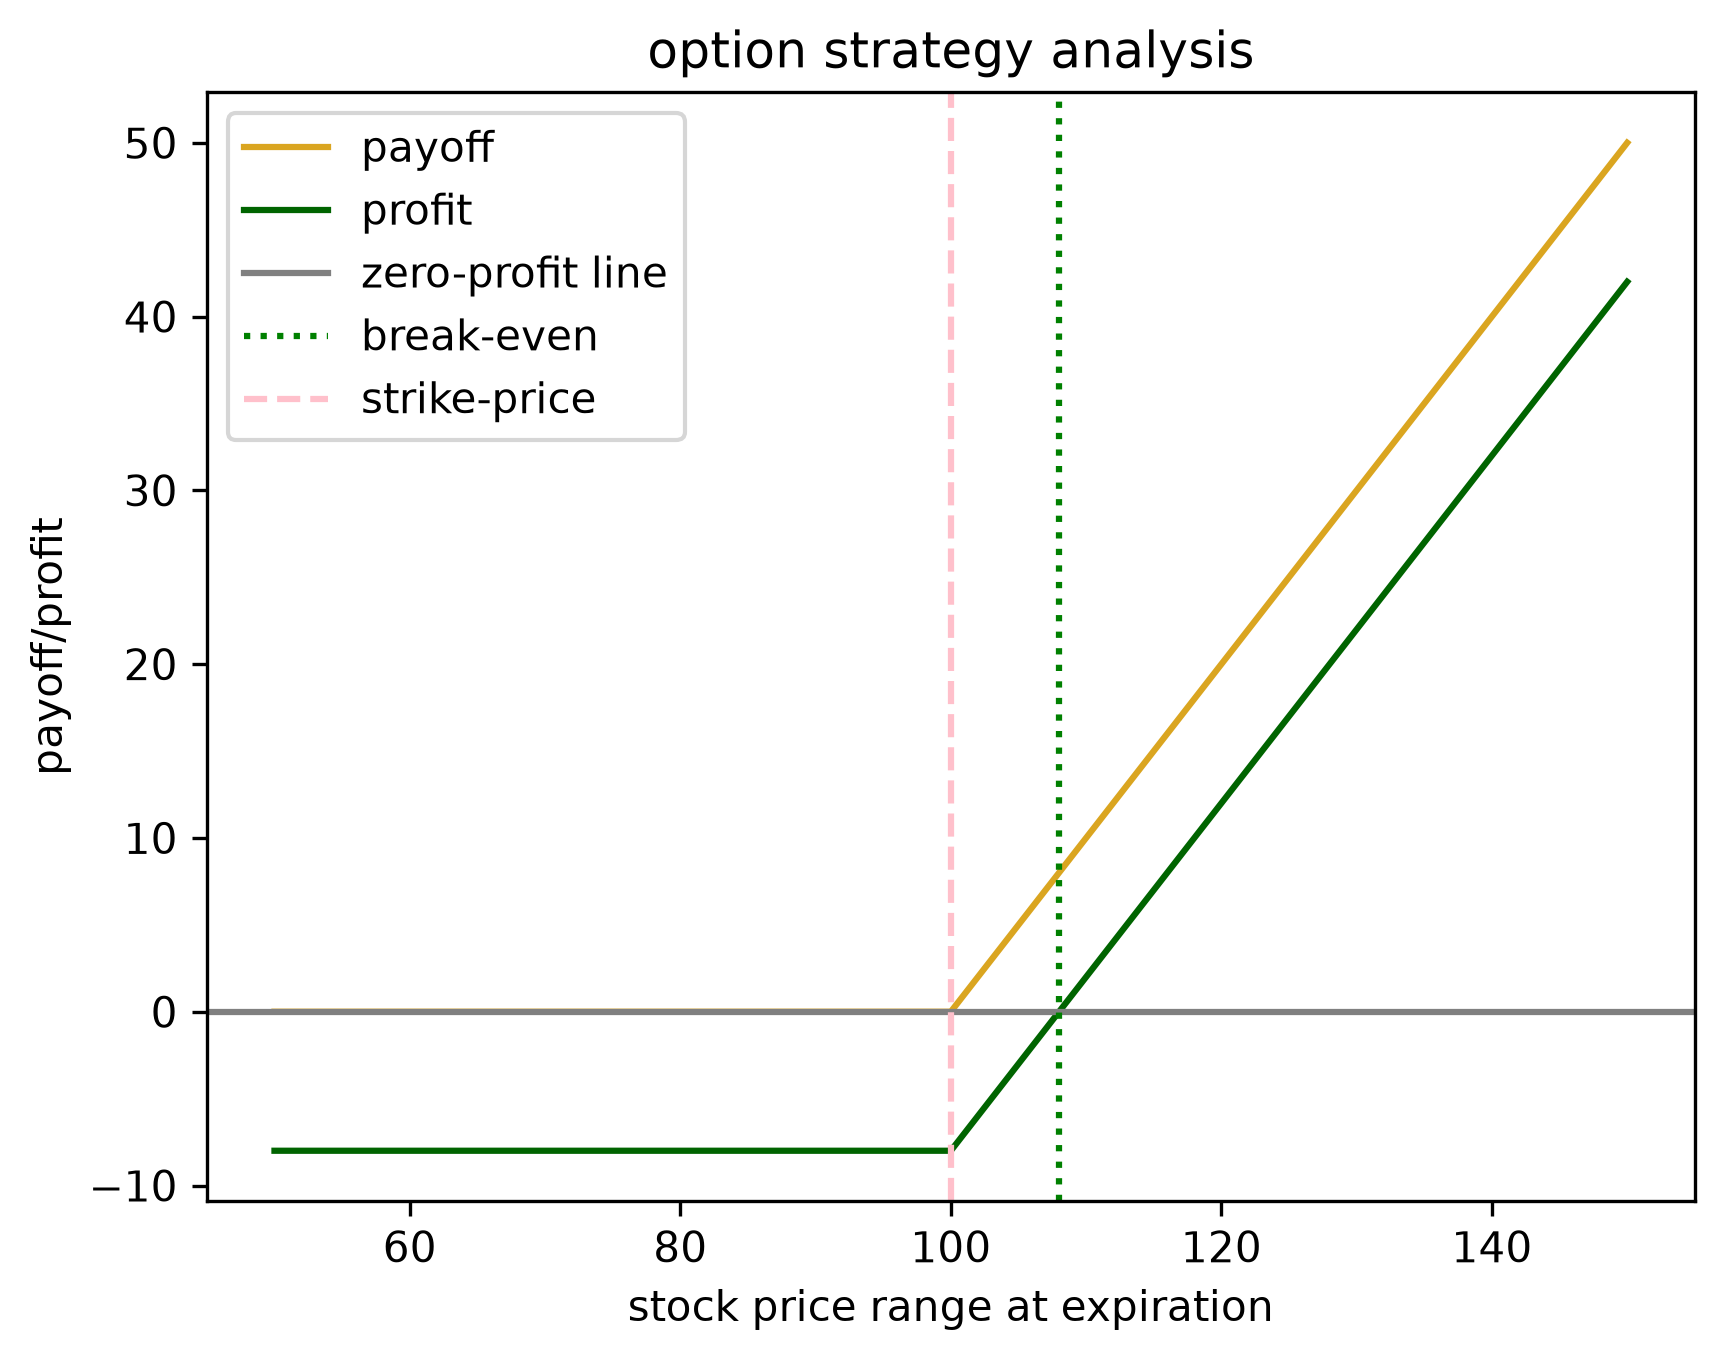
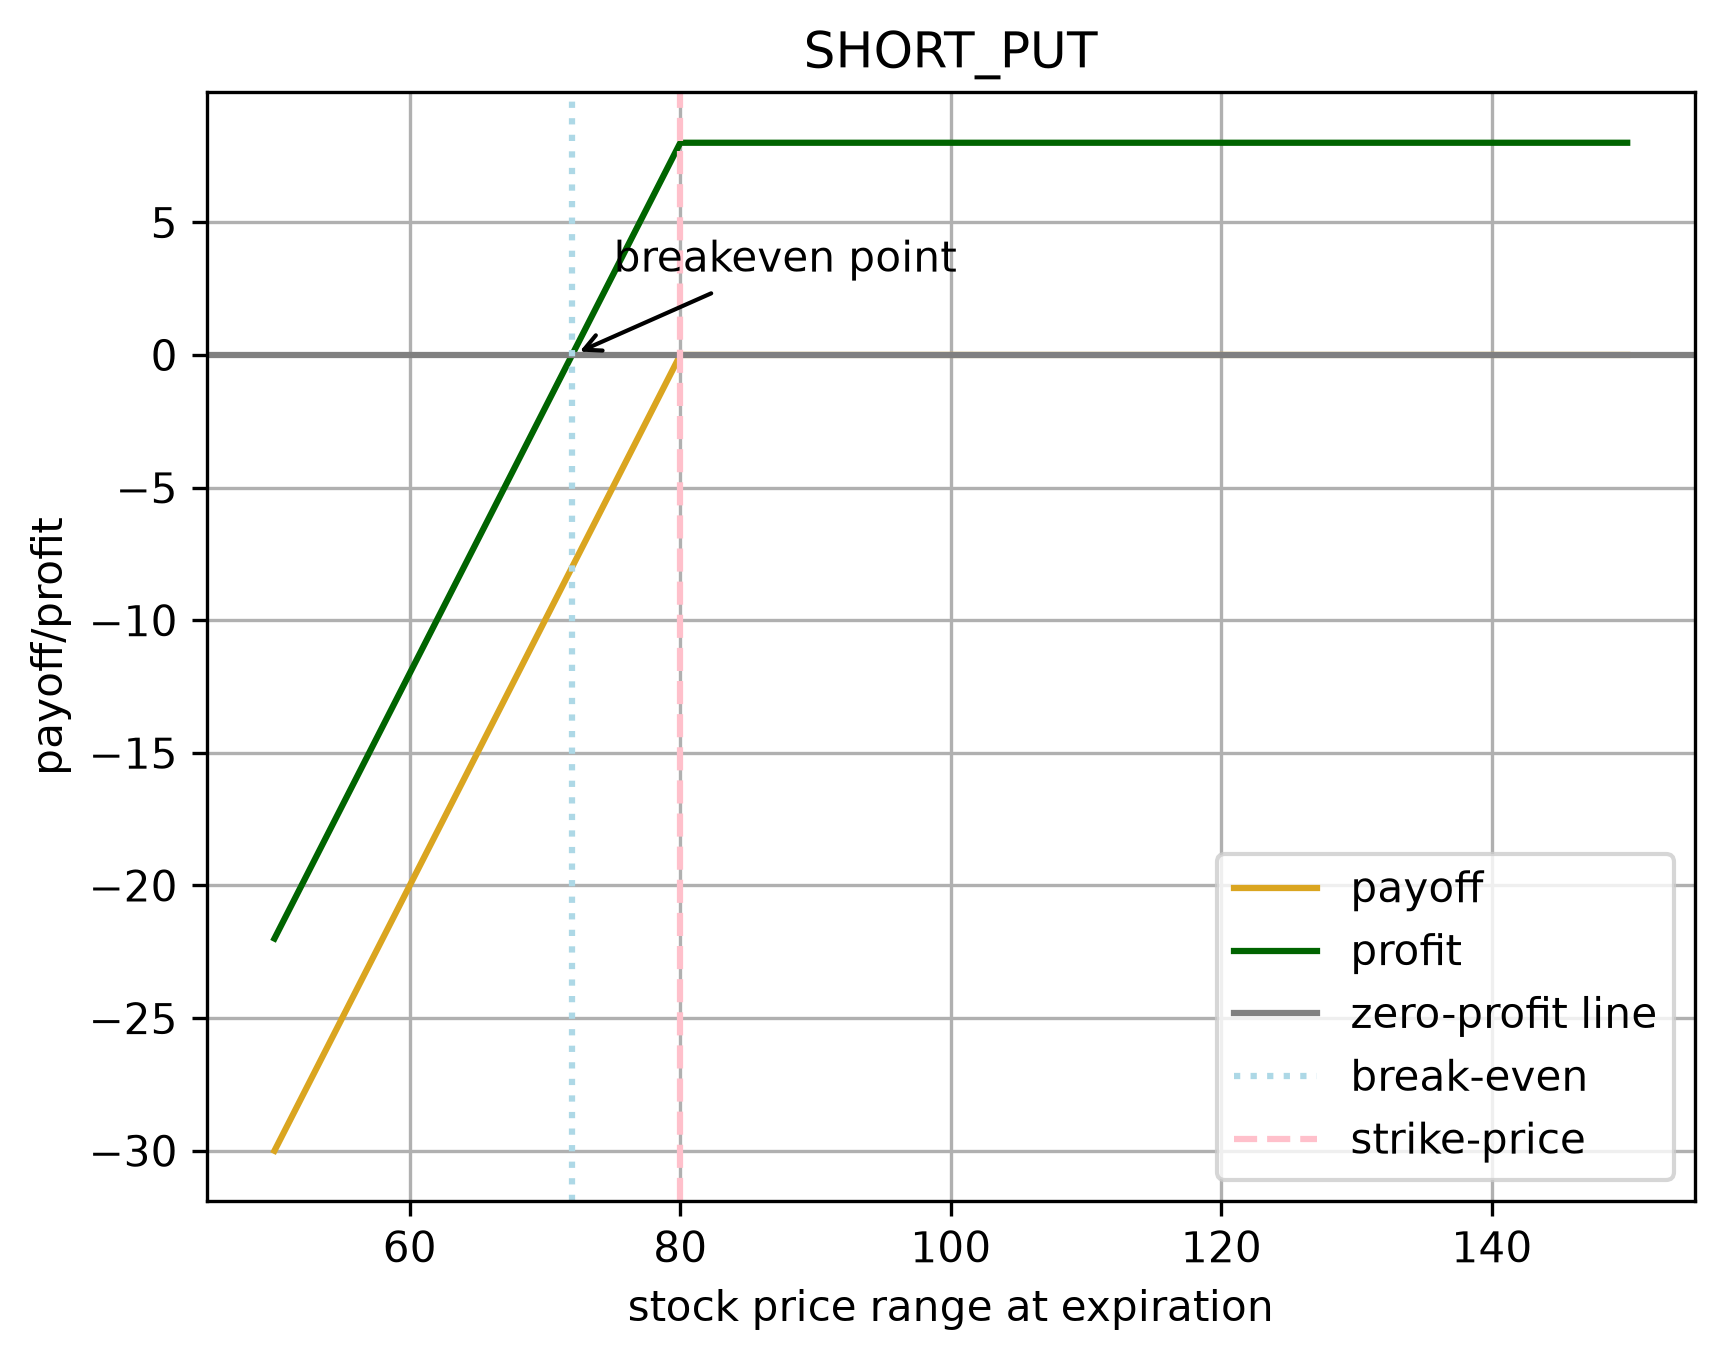
chart customization and annotation

diff --git a/scripts/options_payoff_visuals.py b/scripts/options_payoff_visuals.py
@@ -50,11 +50,13 @@ plt.plot(stock_range,payoff, label = 'payoff',color = "goldenrod")           # p
 plt.plot(stock_range,profit, label = 'profit', color = "darkgreen")           # plot the profit line
 plt.xlabel('stock price range at expiration')            # x-axis label
 plt.ylabel('payoff/profit')                              # y-axis label
-plt.title('option strategy analysis')                    # title of the chart
+plt.title(option_strategy.upper())                    # title of the chart
 plt.axhline(y=0, color = "gray" , label = 'zero-profit line')                                         # zero-profit line
-plt.axvline(x=breakeven,color = "green", linestyle = ":", label = 'break-even')       # breakeven
+plt.axvline(x=breakeven,color = "lightblue", linestyle = ":", label = 'break-even')       # breakeven
 plt.axvline(x=strike_price,color = "pink", linestyle = "--" , label = 'strike-price')  # strike price
 plt.legend()                                             # shows the legends
+plt.grid()
+plt.annotate('breakeven point',xy = (breakeven,0), xytext= (10,20), textcoords= 'offset points', arrowprops=dict(arrowstyle = '->'))
 plt.savefig('outputs/charts/options_payoff_visuals.png', dpi = 300 , bbox_inches = 'tight')
 plt.show()
 
